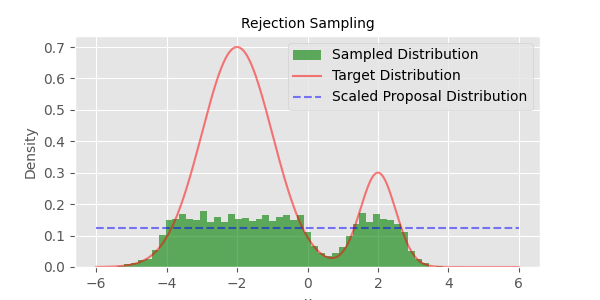
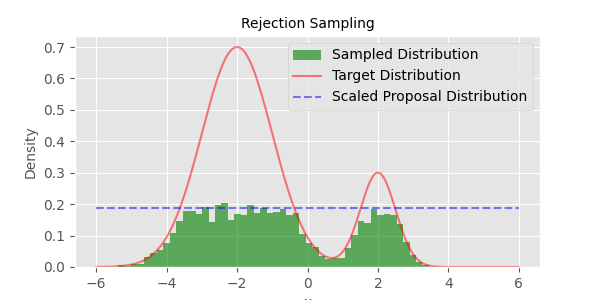
rejection sampling

Changed region(s): [[0.15, 0.66, 0.87, 0.87], [0.69, 0.84, 0.72, 0.9], [0.21, 0.87, 0.24, 0.9]]

diff --git a/source/ch0-math/rejection_sampling.py b/source/ch0-math/rejection_sampling.py
@@ -23,7 +23,7 @@ def rejection_sampling(n_samples, target_dist, proposal_dist, M, x_min, x_max):
 # Parameters
 n_samples = 5000
 x_min, x_max = -6, 6
-M = 1.0  # scaling factor (make sure M * proposal_dist >= target_dist for all x in [x_min, x_max])
+M = 1.5  # scaling factor (make sure M * proposal_dist >= target_dist for all x in [x_min, x_max])
 
 # Generate samples
 samples = rejection_sampling(n_samples, target_distribution, proposal_distribution, M, x_min, x_max)

diff --git a/source/ch0-math/README.md b/source/ch0-math/README.md
@@ -316,13 +316,13 @@ Rejection sampling is a basic technique used in Monte Carlo methods to generate 
 
 ### How Rejection Sampling Works
 
-1. **Define Target Distribution**: This is the distribution from which we want to sample, denoted as \( f(x) \).
-2. **Choose Proposal Distribution**: This is a simpler distribution from which we can easily sample, denoted as \( g(x) \).
-3. **Scale the Proposal Distribution**: Find a constant \( M \) such that \( M \cdot g(x) \geq f(x) \) for all \( x \).
+1. **Define Target Distribution**: This is the distribution from which we want to sample, denoted as f(x).
+2. **Choose Proposal Distribution**: This is a simpler distribution from which we can easily sample, denoted as g(x).
+3. **Scale the Proposal Distribution**: Find a constant M such that  M \* g(x) = f(x) for all x.
 4. **Generate Samples**:
-   - Sample \( x \) from \( g(x) \).
-   - Generate a uniform random number \( u \) from \( [0, M \cdot g(x)] \).
-   - Accept \( x \) if \( u \leq f(x) \); otherwise, reject \( x \).
+   - Sample x from g(x).
+   - Generate a uniform random number u from \[0, M \* g(x)\].
+   - Accept x if u = f(x); otherwise, reject x.
 
 ### Python Code for Rejection Sampling
 
